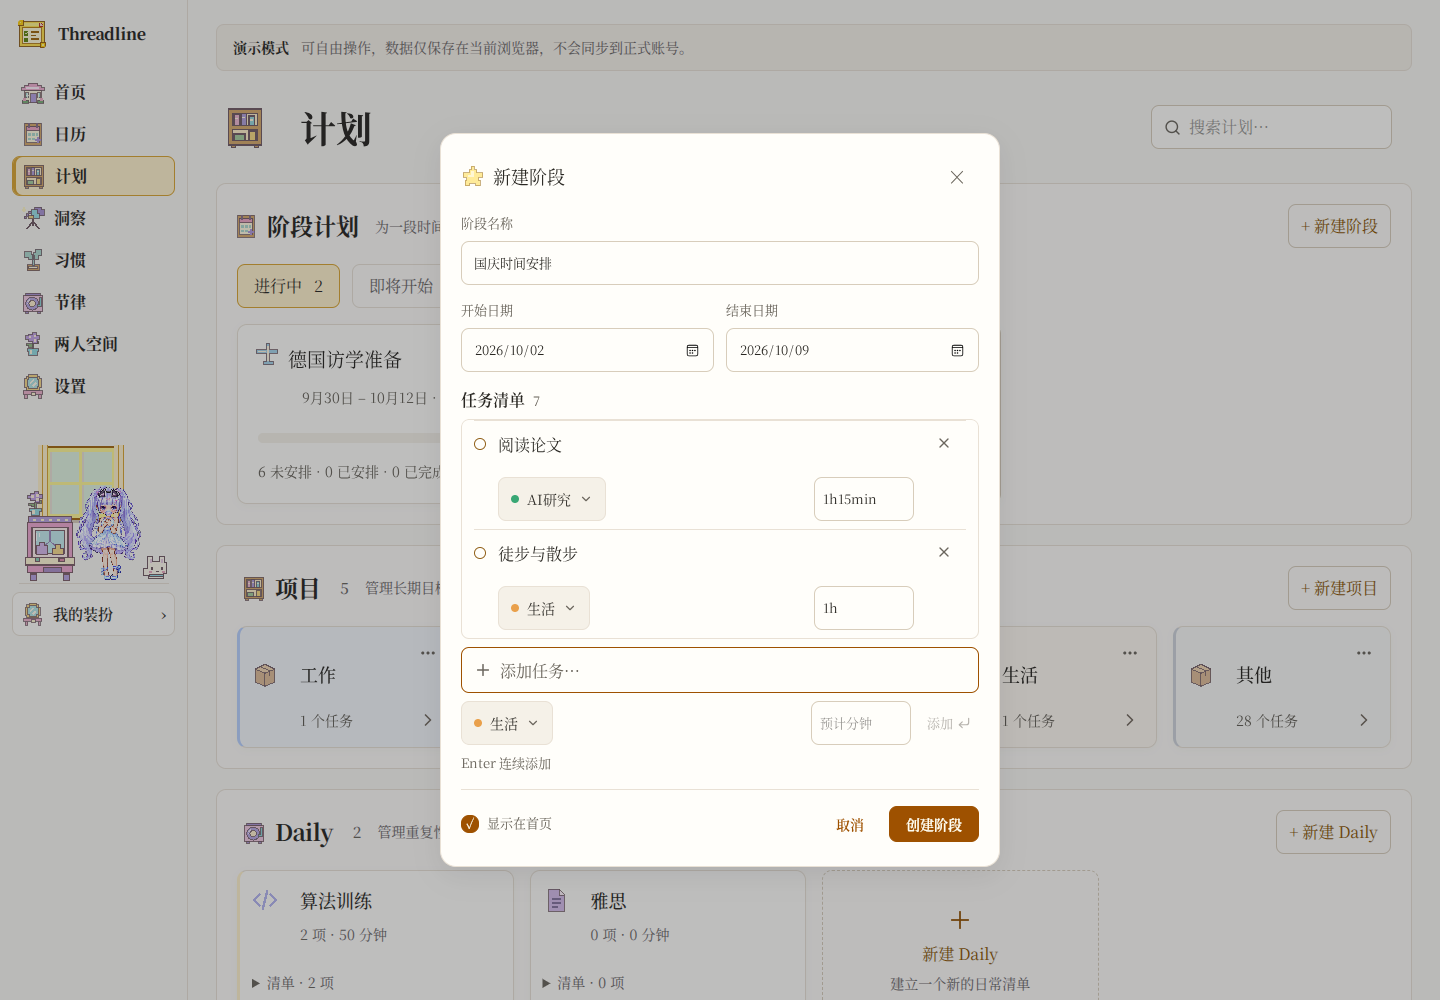
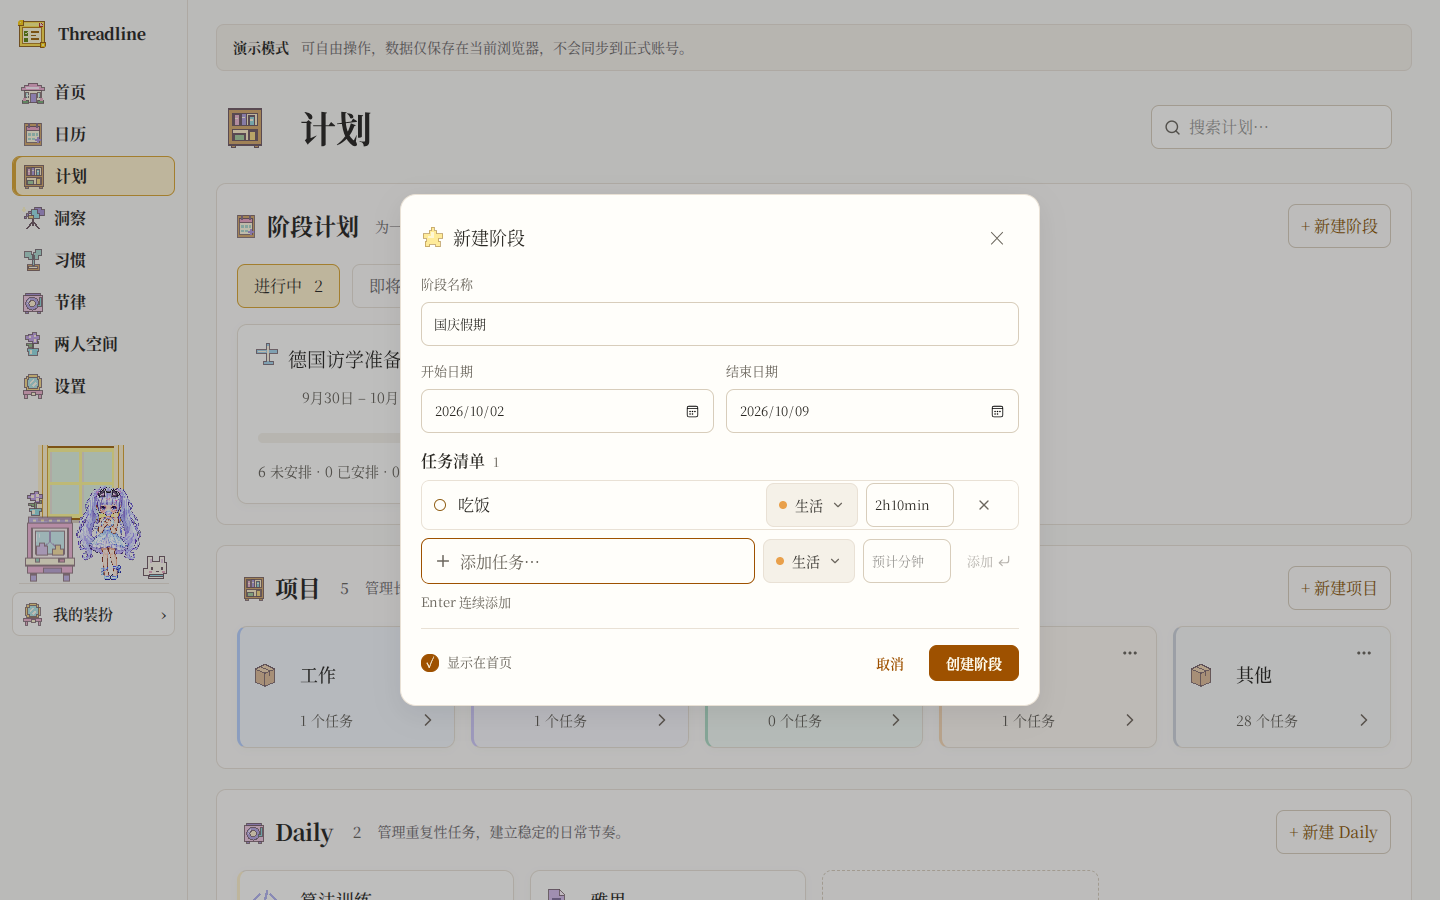
ui(stage-editor)：将任务项目和预计时间恢复为同排行

diff --git a/src/features/stage-plans/stage-editor.css b/src/features/stage-plans/stage-editor.css
@@ -7,7 +7,7 @@
   display: flex;
   flex-direction: column;
   overflow: hidden;
-  width: min(100%, 560px);
+  width: min(100%, 640px);
   padding: var(--space-5);
   gap: var(--space-4);
   box-sizing: border-box;
@@ -129,8 +129,8 @@
 
 .stage-draft-item {
   display: grid;
-  grid-template-columns: 16px minmax(0, 1fr) auto var(--touch-target);
-  align-items: start;
+  grid-template-columns: 16px minmax(0, 1fr) auto 88px var(--touch-target);
+  align-items: center;
   gap: var(--space-2);
   min-width: 0;
   min-height: var(--touch-target);
@@ -143,7 +143,7 @@
 .stage-draft-bullet {
   width: 12px;
   height: 12px;
-  margin-top: 17px;
+  margin: 0;
   border: 1px solid var(--border-strong);
   border-radius: 50%;
 }
@@ -207,12 +207,15 @@
 .stage-draft-composer {
   flex-shrink: 0;
   display: grid;
+  grid-template-columns: minmax(0, 1fr) auto;
+  align-items: center;
   gap: 8px;
   min-width: 0;
   color: var(--text-secondary);
 }
 .stage-draft-title-field {
   display: flex;
+  min-width: 0;
   align-items: center;
   gap: 8px;
   padding: 0 12px;
@@ -253,12 +256,11 @@
   display: flex;
   align-items: center;
   justify-content: flex-end;
-  flex-wrap: wrap;
+  flex-wrap: nowrap;
   gap: 8px;
 }
 .stage-draft-controls > .project-picker {
-  margin-right: auto;
-  max-width: 140px;
+  max-width: 120px;
 }
 .stage-draft-controls > button {
   display: inline-flex;
@@ -385,25 +387,13 @@
   }
 }
 
-/* 每条任务的名称占一行，项目与选填估时放在下一行，避免挤压标题。 */
-.stage-draft-item textarea {
-  grid-column: 2 / 4;
-  grid-row: 1;
-}
+/* 名称、项目、预计时间与操作同排；长标题在自己的列内换行。 */
 .stage-draft-item > .project-picker {
-  grid-column: 2;
-  grid-row: 2;
-  justify-self: start;
-  margin-bottom: 8px;
+  max-width: 120px;
 }
-.stage-draft-item > .stage-estimate-input {
-  grid-column: 3;
-  grid-row: 2;
-  margin-bottom: 8px;
-}
-.stage-draft-item > button {
-  grid-column: 4;
-  grid-row: 1;
+.stage-draft-item > .stage-estimate-input,
+.stage-draft-controls > .stage-estimate-input {
+  width: 88px;
 }
 .stage-estimate-input {
   width: 100px;
@@ -440,20 +430,42 @@
     grid-column: 1 / -1;
   }
   .stage-draft-item {
-    grid-template-columns: 12px minmax(0, 1fr) 90px 32px;
+    grid-template-columns: minmax(0, 1fr) 88px 32px;
     gap: 4px;
   }
+  .stage-draft-bullet {
+    display: none;
+  }
+  .stage-draft-item textarea {
+    grid-column: 1 / 3;
+    grid-row: 1;
+  }
+  .stage-draft-item > .project-picker {
+    grid-column: 1;
+    grid-row: 2;
+    margin-bottom: 8px;
+  }
   .stage-draft-item > .stage-estimate-input {
-    width: 90px;
+    grid-column: 2;
+    grid-row: 2;
+    margin-bottom: 8px;
+  }
+  .stage-draft-item > button {
+    grid-column: 3;
+    grid-row: 1;
+    min-width: 32px;
+    padding: 0;
+  }
+  .stage-draft-composer {
+    grid-template-columns: minmax(0, 1fr);
   }
   .stage-draft-controls {
+    flex-wrap: wrap;
     gap: 4px;
   }
   .stage-draft-controls > .project-picker {
+    margin-right: auto;
     max-width: 100px;
-  }
-  .stage-draft-controls > .stage-estimate-input {
-    width: 90px;
   }
 }
 @media (forced-colors: active) {

diff --git a/README.md b/README.md
@@ -28,7 +28,7 @@
 
 **计划**将阶段计划、长期项目和 Daily 放在同一页。阶段清单可以先不填日期与时间，开启「首页显示」后完整出现在待安排上方，点击「→ 今天」把同一任务放进日程；结束后仍可在「过去」回顾。原「规划」导航改名为「日历」。启用时先应用阶段迁移再发布客户端，见 [阶段计划](docs/stage-plans.md)。
 
-点击项目卡片可查看该项目的全部任务，涵盖阶段、日程与普通待安排；同一任务只显示一次，可按状态筛选或搜索。阶段创建使用可编辑的连续清单，默认归属「其他」，每条任务旁的下拉框可直接更换项目，宽度跟随所选名称；新增行与详情追加也可选项目。 阶段新建清单与详情追加均可选填预计分钟，90 分钟会显示为 `1h30min`；详情的时间分布以内圈区分项目、外圈区分任务，同项目采用同色深浅，并可切换预计/实际。云端启用估时前需应用 `202610020001_stage_task_estimates.sql`。
+点击项目卡片可查看该项目的全部任务，涵盖阶段、日程与普通待安排；同一任务只显示一次，可按状态筛选或搜索。阶段创建使用可编辑的连续清单，默认归属「其他」，每条任务旁的下拉框可直接更换项目，宽度跟随所选名称；新增行与详情追加也可选项目。 桌面阶段清单的任务、项目与预计时间同排显示，新建清单与详情追加均可选填预计分钟，90 分钟会显示为 `1h30min`；详情的时间分布以内圈区分项目、外圈区分任务，同项目采用同色深浅，并可切换预计/实际。云端启用估时前需应用 `202610020001_stage_task_estimates.sql`。
 
 0.1.11 的阶段清单沿用今日日程的行内项目标签，复选框、项目和标题首行对齐；阶段编辑保留打开时的并发版本，延迟确认不会覆盖新状态或重现已删除的阶段。发布和迁移顺序见 [版本说明](docs/release-0.1.11.md)。
 

diff --git a/docs/ui-polish.md b/docs/ui-polish.md
@@ -59,7 +59,7 @@
 
 ## 输入焦点与阶段时间视图补充
 
-输入框静态边框保持 1px，聚焦只改变本身边框颜色，移除外描边和叠加阴影；组合任务输入由名称所在外壳承担焦点反馈，内层原生 input 不画第二个框。项目、估时和添加按钮位于输入行下方，独立获得焦点；按钮仍保留键盘焦点环。错误估时显示错误边框和提交提示，系统高对比模式使用 Highlight 轮廓，布局尺寸不随聚焦变化。主题样式不再重写独立输入框的焦点。
+输入框静态边框保持 1px，聚焦只改变本身边框颜色，移除外描边和叠加阴影；组合任务输入由名称所在外壳承担焦点反馈，内层原生 input 不画第二个框。桌面任务、项目和估时保持同排，独立获得焦点；桌面添加/移除操作也在行尾，手机窄屏保留自动换行，保证标题可读；按钮仍保留键盘焦点环。错误估时显示错误边框和提交提示，系统高对比模式使用 Highlight 轮廓，布局尺寸不随聚焦变化。主题样式不再重写独立输入框的焦点。
 
 参考微软 [Fluent Input 官方实现](https://github.com/microsoft/fluentui/blob/master/packages/react-components/react-input/library/src/components/Input/useInputStyles.styles.ts)：组合输入由外壳绘制状态，内部 input 无独立边框；Fluent 自身采用底部聚焦线，本项目按用户偏好采用单层周边细线。Google [Material Text field](https://material-web.dev/components/text-field/) 同样区分输入状态与错误状态；本项目保留可辨认反馈，不照搬浮动标签或动画。
 
